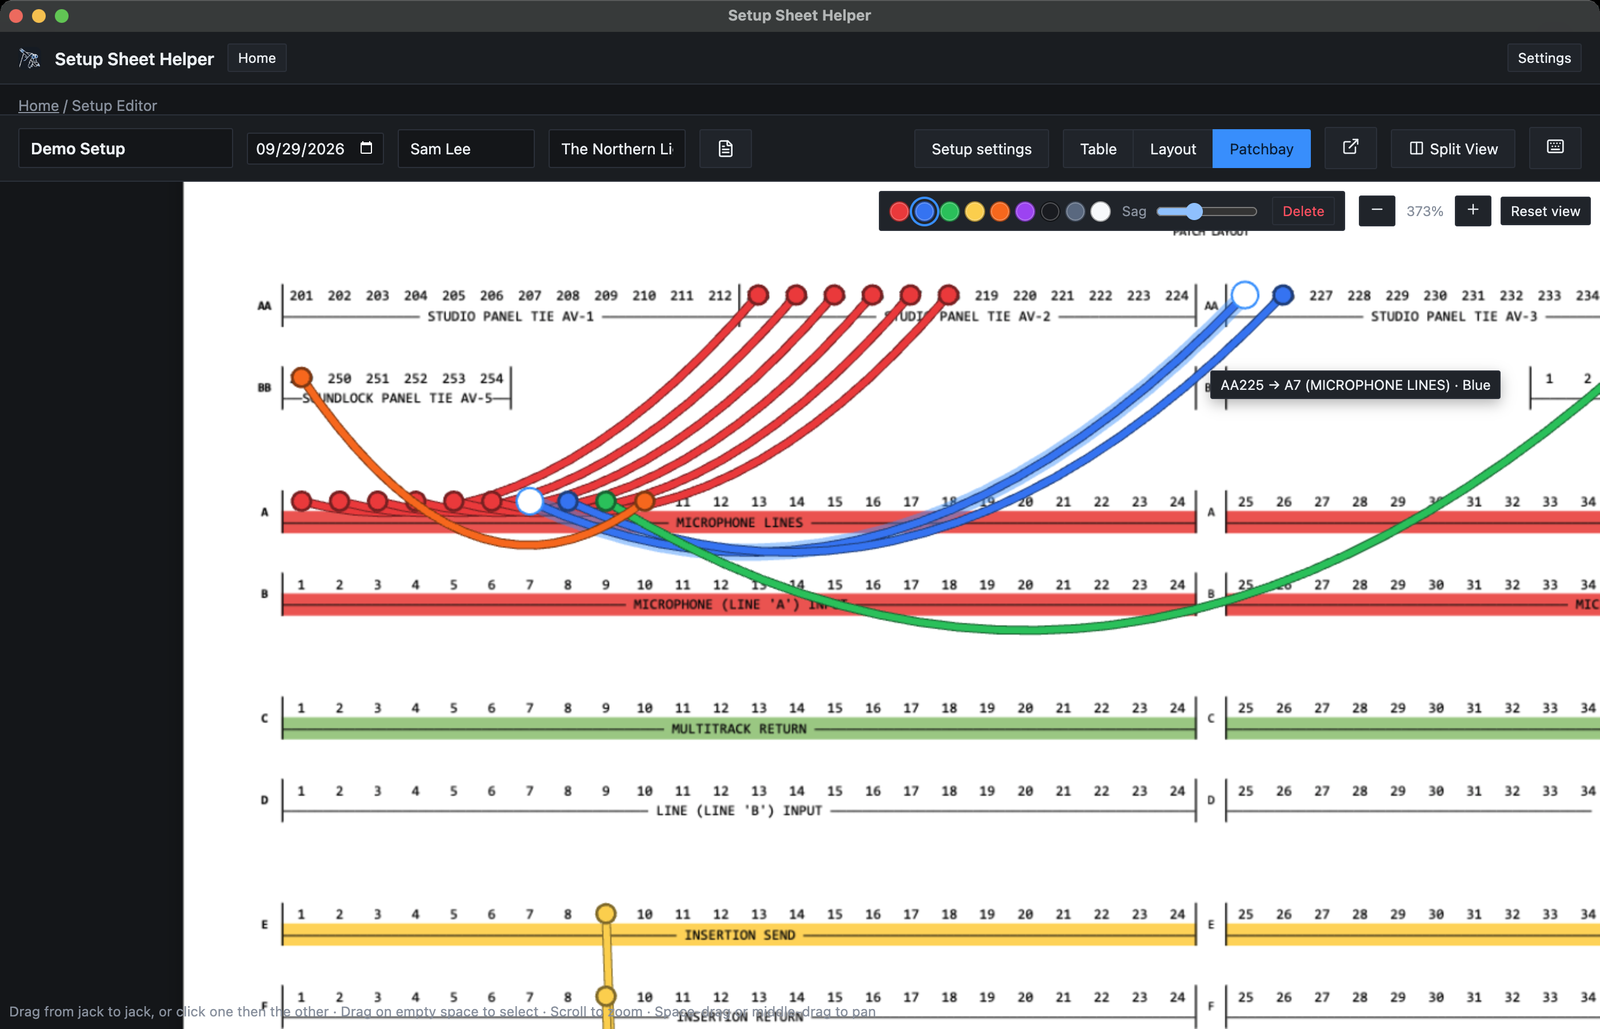
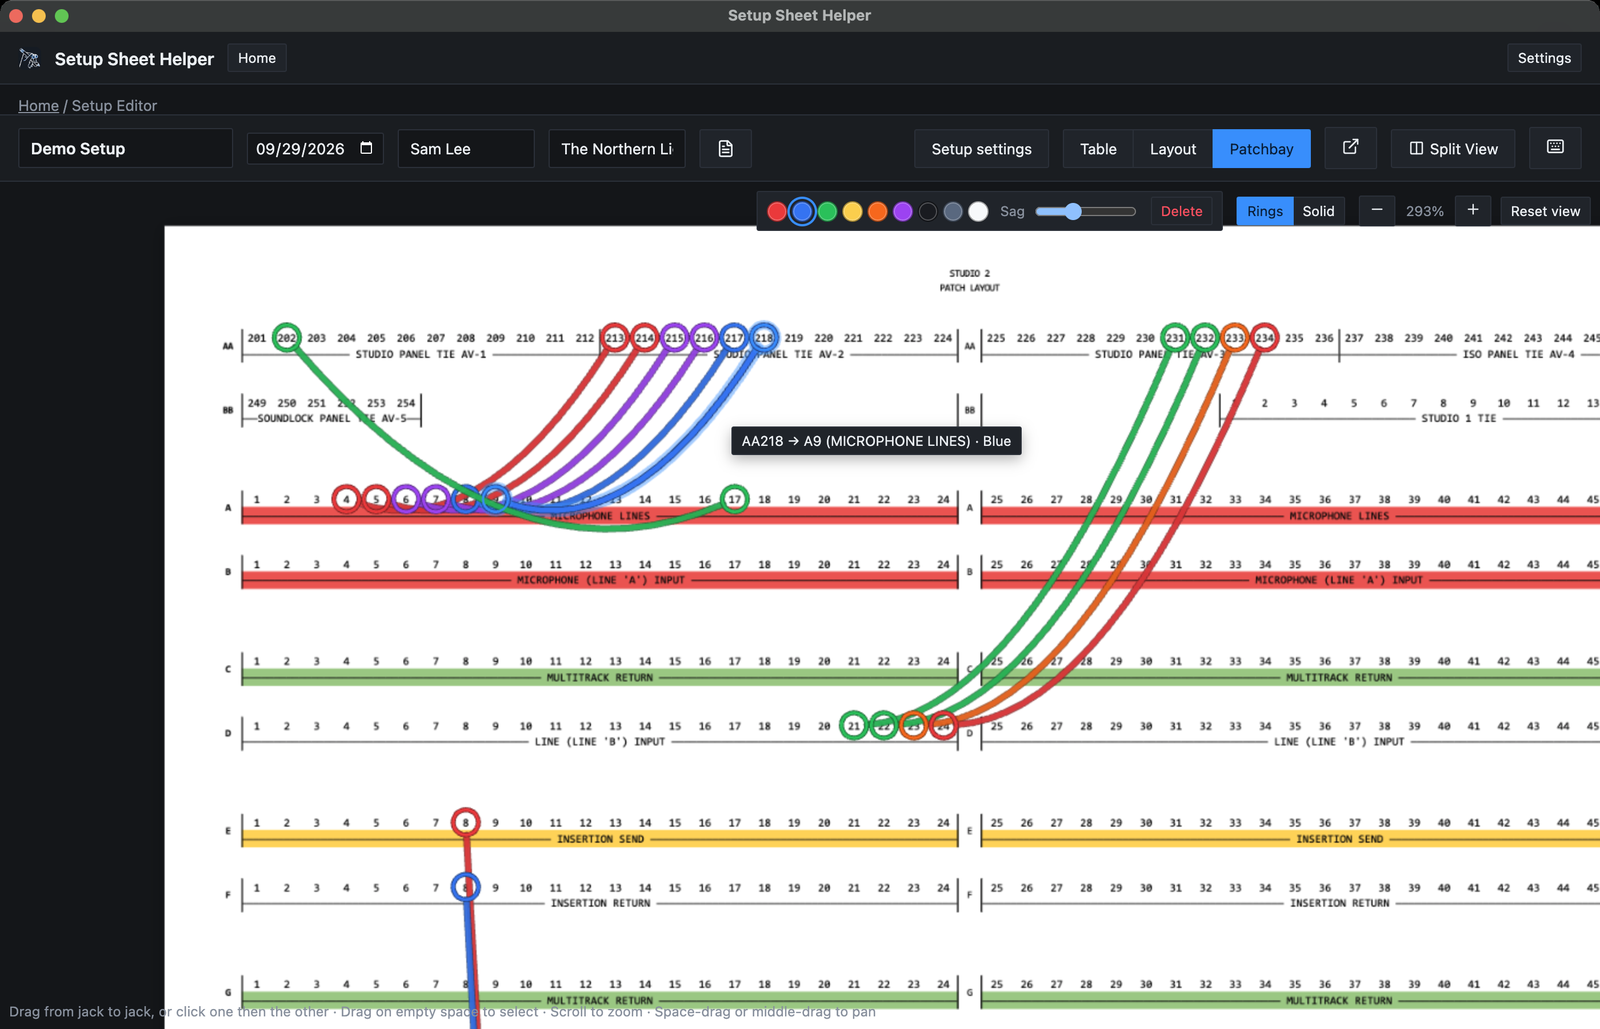
Manual and home page for 1.22.1: patchbay on the home page, ring plugs, setup files carry the floor plan

Changed region(s): [[0.0938, 0.1555, 1.0, 1.0]]

diff --git a/manual-patchbay.html b/manual-patchbay.html
@@ -8,7 +8,7 @@
 <link rel="canonical" href="https://setupsheethelper.julianro.se/manual-patchbay.html" />
 <link rel="icon" href="assets/favicon-32.png" type="image/png" />
 <link rel="apple-touch-icon" href="assets/apple-touch-icon.png" />
-<link rel="stylesheet" href="styles.css?v=8ccac06e" />
+<link rel="stylesheet" href="styles.css?v=23fbcc2b" />
 
 <meta name="theme-color" content="#14161a" />
 
@@ -77,6 +77,7 @@
           <li><a href="#draw-cables">Drawing a cable</a></li>
           <li><a href="#select-cables">Selecting cables</a></li>
           <li><a href="#edit-cables">Changing and deleting cables</a></li>
+          <li><a href="#plug-style">Rings or solid plugs</a></li>
           <li><a href="#zoom-pan">Zooming and panning</a></li>
           <li><a href="#undo">Undo</a></li>
           <li><a href="#printing">Printing the patch</a></li>
@@ -101,7 +102,7 @@
     <p class="lede">Patchbay Mode puts the studio's patchbay drawing on screen. Draw a cable from jack to jack for every patch the session needs, and the patch prints with the setup sheet, with a list of every cable.</p>
 
     <figure class="manual-shot">
-      <img src="assets/manual/patchbay-overview.png" alt="Demo Setup in Patchbay Mode. The toolbar switch reads Table, Layout and Patchbay, with Patchbay selected. The studio's patchbay drawing fills the canvas, with red, blue, green and orange cables running from the studio tie lines at the top to the microphone lines, and a yellow cable running down the page. Cable color swatches, a Sag slider, zoom buttons showing 100% and Reset view sit at the top right." loading="lazy" />
+      <img src="assets/manual/patchbay-overview.png" alt="Demo Setup in Patchbay Mode. The toolbar switch reads Table, Layout and Patchbay, with Patchbay selected. The studio's patchbay drawing fills the canvas. Red, purple and blue cables run from the studio tie lines at the top to the microphone lines, green, orange and red cables run from tie lines on the right down to the line inputs, and a red and a blue cable run down the page to an LA2A. Small rings sit around each connected jack. Cable color swatches, a Sag slider, a Rings and Solid switch with Rings picked, zoom buttons showing 100% and Reset view sit at the top right." loading="lazy" />
       <figcaption>Patchbay Mode: the studio's patchbay drawing, with this setup's cables on it.</figcaption>
     </figure>
 
@@ -137,18 +138,22 @@
       <li><strong>Drag on empty space</strong> to draw a box. Every cable it crosses is selected. Hold <kbd>⌘</kbd> or <kbd>⇧</kbd> to add them to what's already selected.</li>
       <li><strong><kbd>⌘</kbd><kbd>A</kbd></strong> selects every cable, and <kbd>Esc</kbd> clears the selection.</li>
     </ul>
-    <p>Hover any cable to see where it goes, such as <span class="manual-ui">AA225 → A7 (MICROPHONE LINES) · Blue</span>. The far end's strip is named when it's different from the near end's.</p>
+    <p>Hover any cable to see where it goes, such as <span class="manual-ui">AA218 → A9 (MICROPHONE LINES) · Blue</span>. The far end's strip is named when it's different from the near end's.</p>
     <figure class="manual-shot">
-      <img src="assets/manual/patchbay-cables.png" alt="Patchbay Mode zoomed to 373% on the top of the drawing. Red cables run from studio tie lines AA213 to AA218 down to microphone lines A1 to A6, blue cables from AA225 and AA226 to A7 and A8, plus a green and an orange cable. One blue cable is selected: it has a pale outline and a white handle at each end, and a tooltip reads AA225 → A7 (MICROPHONE LINES) · Blue. The toolbar shows the Blue swatch picked, the Sag slider and a red Delete button." loading="lazy" />
+      <img src="assets/manual/patchbay-cables.png" alt="Patchbay Mode zoomed to 293% on the top of the drawing. Red, purple and blue cables run from studio tie lines AA213 to AA218 down to microphone lines A4 to A9, a green cable runs from AA202 to A17, and green, orange and red cables run from AA231 to AA234 down to line inputs D21 to D24. Each cable end is a ring around its jack, so the jack numbers still show. One blue cable is selected: it has a pale outline and a ring handle at each end, and a tooltip reads AA218 → A9 (MICROPHONE LINES) · Blue. The toolbar shows the Blue swatch picked, the Sag slider, a red Delete button and the Rings and Solid switch." loading="lazy" />
       <figcaption>A selected cable has a handle at each end. Hovering it names both ends.</figcaption>
     </figure>
 
     <h2 id="edit-cables">Changing and deleting cables</h2>
     <ul>
       <li><strong>Color and sag.</strong> With cables selected, the swatches and the <span class="manual-ui">Sag</span> slider change those cables instead of the next one. With several selected, the toolbar says how many.</li>
-      <li><strong>Re-patching.</strong> Drag a white end handle of a selected cable to another jack.</li>
+      <li><strong>Re-patching.</strong> Drag an end handle of a selected cable to another jack.</li>
       <li><strong>Deleting.</strong> Click <span class="manual-ui">Delete</span> in the toolbar, or press <kbd>Del</kbd> or <kbd>⌘</kbd><kbd>⌫</kbd>.</li>
     </ul>
+
+    <h2 id="plug-style">Rings or solid plugs</h2>
+    <p>Each cable end is drawn as a ring around its jack, so the jack's label still reads through it. The cable meets the ring on the side it comes from, and the cable itself is slightly see-through, so the rows it hangs across stay readable.</p>
+    <p>The <span class="manual-ui">Rings</span> and <span class="manual-ui">Solid</span> switch on the toolbar changes the look. <span class="manual-ui">Solid</span> draws each end as a filled plug on top of the jack. The switch changes every cable in every setup, and exports print the style you picked.</p>
 
     <h2 id="zoom-pan">Zooming and panning</h2>
     <ul>
@@ -156,7 +161,7 @@
       <li><strong>Buttons:</strong> <span class="manual-ui">−</span> and <span class="manual-ui">+</span> at the top right, with the current zoom between them. <span class="manual-ui">Reset view</span> returns to 100%, where the whole drawing fits.</li>
       <li><strong>Keys:</strong> the Layout Mode zoom keys work here too. <kbd>⌘</kbd><kbd>⇧</kbd><kbd>=</kbd> zooms in, <kbd>⌘</kbd><kbd>⇧</kbd><kbd>−</kbd> zooms out, and <kbd>⌘</kbd><kbd>⇧</kbd><kbd>0</kbd> resets the view.</li>
     </ul>
-    <p>Zoom goes from 25% to 400%. To move around, hold <kbd>Space</kbd> and drag, or drag with the middle mouse button.</p>
+    <p>Zoom goes from 25% to 400%. A moment after you zoom in, the drawing sharpens to match, so small jack labels stay crisp. To move around, hold <kbd>Space</kbd> and drag, or drag with the middle mouse button.</p>
 
     <h2 id="undo">Undo</h2>
     <p><kbd>⌘</kbd><kbd>Z</kbd> undoes your last cable change, and <kbd>⌘</kbd><kbd>⇧</kbd><kbd>Z</kbd> redoes it. Drawing, re-patching, recoloring and deleting are one step each, and so is one drag of the <span class="manual-ui">Sag</span> slider. Cables save as you work, just like the sheet.</p>

diff --git a/index.html b/index.html
@@ -8,7 +8,7 @@
 <link rel="canonical" href="https://setupsheethelper.julianro.se/" />
 <link rel="icon" href="assets/favicon-32.png" type="image/png" />
 <link rel="apple-touch-icon" href="assets/apple-touch-icon.png" />
-<link rel="stylesheet" href="styles.css?v=8ccac06e" />
+<link rel="stylesheet" href="styles.css?v=23fbcc2b" />
 
 <meta name="theme-color" content="#14161a" />
 
@@ -122,6 +122,11 @@
       </article>
 
       <article class="feature-card reveal">
+        <h3>Patchbay patching</h3>
+        <p>Draw colored cables between the jacks on the studio's patchbay drawing, then print the patch with a list of every cable.</p>
+      </article>
+
+      <article class="feature-card reveal">
         <h3>Channel presets</h3>
         <p>Save a full channel configuration once, reuse it across every future session with that setup.</p>
       </article>
@@ -193,6 +198,19 @@
 
     <div class="showcase-row reverse reveal">
       <div class="showcase-image">
+        <img src="assets/screenshots/patchbay-mode.png" alt="Patchbay Mode on a studio patchbay drawing: red, purple, blue, green and orange patch cables run from the studio tie lines at the top to the microphone lines and line inputs, each end a small ring around its jack so the jack numbers stay readable. Cable color swatches, a Sag slider and a Rings and Solid switch sit at the top." loading="lazy" />
+      </div>
+      <div class="showcase-copy">
+        <h3>Patchbay Mode</h3>
+        <p>
+          Patch the session right on the studio's patchbay drawing. Cables snap onto the jacks,
+          and the patch prints with the sheet, along with a list of where every cable goes.
+        </p>
+      </div>
+    </div>
+
+    <div class="showcase-row reveal">
+      <div class="showcase-image">
         <img src="assets/screenshots/pdf-export.png" alt="A printed PDF setup sheet with color-tinted row sections, mic assignments, 48V ticks, channel numbers, and tie lines." loading="lazy" />
       </div>
       <div class="showcase-copy">
@@ -203,7 +221,7 @@
       </div>
     </div>
 
-    <div class="showcase-row reveal">
+    <div class="showcase-row reverse reveal">
       <div class="showcase-image">
         <img src="assets/screenshots/bulk-toolbar.png" alt="A selection toolbar showing 6 rows selected, with sequential channel numbering, a color picker, and a save-as-preset button." loading="lazy" />
       </div>
@@ -216,7 +234,7 @@
       </div>
     </div>
 
-    <div class="showcase-row reverse reveal">
+    <div class="showcase-row reveal">
       <div class="showcase-image">
         <img src="assets/screenshots/studio-editor.png" alt="The studio inventory editor: tabs for 85 mics, 14 outboard and 12 preamps, an imported room layout PDF, and buttons to import gear from another studio or a spreadsheet." loading="lazy" />
       </div>

diff --git a/manual-sharing.html b/manual-sharing.html
@@ -8,7 +8,7 @@
 <link rel="canonical" href="https://setupsheethelper.julianro.se/manual-sharing.html" />
 <link rel="icon" href="assets/favicon-32.png" type="image/png" />
 <link rel="apple-touch-icon" href="assets/apple-touch-icon.png" />
-<link rel="stylesheet" href="styles.css?v=8ccac06e" />
+<link rel="stylesheet" href="styles.css?v=23fbcc2b" />
 
 <meta name="theme-color" content="#14161a" />
 
@@ -107,7 +107,7 @@
     </figure>
     <ul>
       <li><strong>A studio file</strong> (<code>studios-export.json</code>) carries whole rooms: each studio's mics, outboard, preamps, room layout and patchbay drawing. Use it to share a room you've set up, or to move your studios to another Mac.</li>
-      <li><strong>A setup file</strong> (<code>setups-export.json</code>) carries setup sheets: every row, the column choices, session notes, the setup's own room layout if it has one, and its patch cables.</li>
+      <li><strong>A setup file</strong> (<code>setups-export.json</code>) carries setup sheets: every row, the column choices, session notes, the setup's own room layout if it has one (or its blank sheet), the blocks, notes and markup on its floor plan, and its patch cables.</li>
     </ul>
     <p>One file can hold as many studios, or as many setups, as you like.</p>
 
@@ -159,7 +159,7 @@
     <p>Click <span class="manual-ui">Export setups…</span>, tick the setups you want on the <span class="manual-ui">Export Setups</span> screen, then click <span class="manual-ui">Export selected</span> and choose where to save. The file is named <code>setups-export.json</code> unless you change it.</p>
     <div class="manual-aside">
       <span class="manual-aside-title">Tip</span>
-      <p>A setup file doesn't include the blocks, notes or markup on the floor plan. To hand someone the finished plan, export a PDF with the room layout included instead. Patch cables do come along in a setup file. <a href="manual-exporting.html#export-pdf">Part 3</a> covers PDF export.</p>
+      <p>A setup file brings the whole floor plan along: blocks, notes, markup and patch cables. If the setup uses the studio's layout, the file doesn't include that drawing, so the plan lands on whichever layout the receiving studio has. To hand someone a finished plan they can print straight away, export a PDF with the room layout included. <a href="manual-exporting.html#export-pdf">Part 3</a> covers PDF export.</p>
     </div>
 
     <h2 id="importing-setups">Importing setups</h2>

diff --git a/manual-power-features.html b/manual-power-features.html
@@ -8,7 +8,7 @@
 <link rel="canonical" href="https://setupsheethelper.julianro.se/manual-power-features.html" />
 <link rel="icon" href="assets/favicon-32.png" type="image/png" />
 <link rel="apple-touch-icon" href="assets/apple-touch-icon.png" />
-<link rel="stylesheet" href="styles.css?v=8ccac06e" />
+<link rel="stylesheet" href="styles.css?v=23fbcc2b" />
 
 <meta name="theme-color" content="#14161a" />
 

diff --git a/manual-layout-mode.html b/manual-layout-mode.html
@@ -8,7 +8,7 @@
 <link rel="canonical" href="https://setupsheethelper.julianro.se/manual-layout-mode.html" />
 <link rel="icon" href="assets/favicon-32.png" type="image/png" />
 <link rel="apple-touch-icon" href="assets/apple-touch-icon.png" />
-<link rel="stylesheet" href="styles.css?v=8ccac06e" />
+<link rel="stylesheet" href="styles.css?v=23fbcc2b" />
 
 <meta name="theme-color" content="#14161a" />
 

diff --git a/manual-quick-start.html b/manual-quick-start.html
@@ -8,7 +8,7 @@
 <link rel="canonical" href="https://setupsheethelper.julianro.se/manual-quick-start.html" />
 <link rel="icon" href="assets/favicon-32.png" type="image/png" />
 <link rel="apple-touch-icon" href="assets/apple-touch-icon.png" />
-<link rel="stylesheet" href="styles.css?v=8ccac06e" />
+<link rel="stylesheet" href="styles.css?v=23fbcc2b" />
 
 <meta name="theme-color" content="#14161a" />
 

diff --git a/manual-organizing.html b/manual-organizing.html
@@ -8,7 +8,7 @@
 <link rel="canonical" href="https://setupsheethelper.julianro.se/manual-organizing.html" />
 <link rel="icon" href="assets/favicon-32.png" type="image/png" />
 <link rel="apple-touch-icon" href="assets/apple-touch-icon.png" />
-<link rel="stylesheet" href="styles.css?v=8ccac06e" />
+<link rel="stylesheet" href="styles.css?v=23fbcc2b" />
 
 <meta name="theme-color" content="#14161a" />
 

diff --git a/manual-table-mode.html b/manual-table-mode.html
@@ -8,7 +8,7 @@
 <link rel="canonical" href="https://setupsheethelper.julianro.se/manual-table-mode.html" />
 <link rel="icon" href="assets/favicon-32.png" type="image/png" />
 <link rel="apple-touch-icon" href="assets/apple-touch-icon.png" />
-<link rel="stylesheet" href="styles.css?v=8ccac06e" />
+<link rel="stylesheet" href="styles.css?v=23fbcc2b" />
 
 <meta name="theme-color" content="#14161a" />
 

diff --git a/manual-exporting.html b/manual-exporting.html
@@ -8,7 +8,7 @@
 <link rel="canonical" href="https://setupsheethelper.julianro.se/manual-exporting.html" />
 <link rel="icon" href="assets/favicon-32.png" type="image/png" />
 <link rel="apple-touch-icon" href="assets/apple-touch-icon.png" />
-<link rel="stylesheet" href="styles.css?v=8ccac06e" />
+<link rel="stylesheet" href="styles.css?v=23fbcc2b" />
 
 <meta name="theme-color" content="#14161a" />
 

diff --git a/manual-shortcuts.html b/manual-shortcuts.html
@@ -8,7 +8,7 @@
 <link rel="canonical" href="https://setupsheethelper.julianro.se/manual-shortcuts.html" />
 <link rel="icon" href="assets/favicon-32.png" type="image/png" />
 <link rel="apple-touch-icon" href="assets/apple-touch-icon.png" />
-<link rel="stylesheet" href="styles.css?v=8ccac06e" />
+<link rel="stylesheet" href="styles.css?v=23fbcc2b" />
 
 <meta name="theme-color" content="#14161a" />
 

diff --git a/studio-downloads.html b/studio-downloads.html
@@ -8,7 +8,7 @@
 <link rel="canonical" href="https://setupsheethelper.julianro.se/studio-downloads.html" />
 <link rel="icon" href="assets/favicon-32.png" type="image/png" />
 <link rel="apple-touch-icon" href="assets/apple-touch-icon.png" />
-<link rel="stylesheet" href="styles.css?v=8ccac06e" />
+<link rel="stylesheet" href="styles.css?v=23fbcc2b" />
 
 <meta name="theme-color" content="#14161a" />
 

diff --git a/manual-settings.html b/manual-settings.html
@@ -8,7 +8,7 @@
 <link rel="canonical" href="https://setupsheethelper.julianro.se/manual-settings.html" />
 <link rel="icon" href="assets/favicon-32.png" type="image/png" />
 <link rel="apple-touch-icon" href="assets/apple-touch-icon.png" />
-<link rel="stylesheet" href="styles.css?v=8ccac06e" />
+<link rel="stylesheet" href="styles.css?v=23fbcc2b" />
 
 <meta name="theme-color" content="#14161a" />
 
